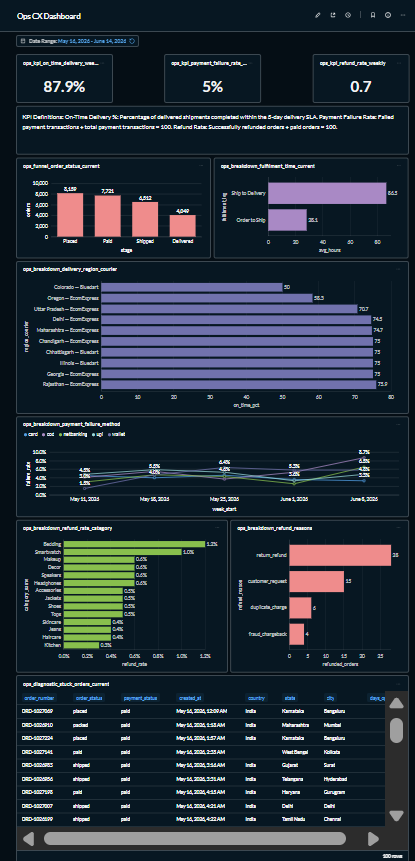
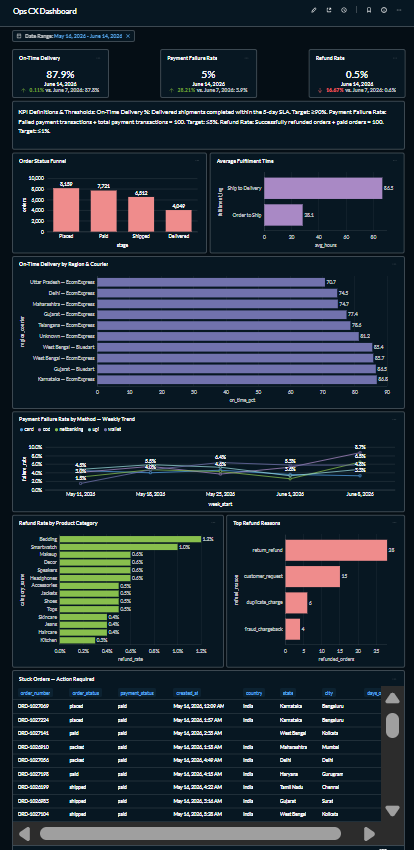
Complete Task 3 reviewer fixes

Changed region(s): [[0.0, 0.0, 1.0, 1.0], [0.5507, 0.4588, 0.6377, 0.4894], [0.7536, 0.4588, 0.7826, 0.4894]]

diff --git a/anomaly-investigations/anomaly_01.md b/anomaly-investigations/anomaly_01.md
@@ -1,41 +1,11 @@
 # Anomaly Investigation 01 — Revenue Decline on June 14, 2026
 
-## Observation
+**Observation:** On June 14, 2026, paid revenue fell to ₹421,219 from ₹1,951,822 on June 7, representing a 78.4% week-over-week decline. This was the most significant movement visible in the Leadership Snapshot.
 
-On June 14, 2026, paid revenue fell to **₹421,219** from **₹1,951,822** on June 7, representing a **78.4% week-over-week decline**.
+**Hypotheses:** The decline could have been caused by lower traffic/session volume, lower conversion into paid orders, lower average order value (AOV), or incomplete data for June 14.
 
-This was the most significant movement visible in the Leadership Snapshot.
+**Tests:** I compared June 14 with the same weekday one week earlier. Session volume declined from 1,007 to 429, a 57.4% decrease. Paid orders declined from 258 to 72, a 72.1% decrease, while AOV declined from ₹7,565 to ₹5,850, a 22.7% decrease. I also reviewed the hourly order profile. June 14 contained order activity across most hours of the day, including late-evening activity, indicating that the revenue decline was not caused by a simple partial-day data cutoff.
 
-## Hypotheses
+**Conclusion:** The revenue decline was primarily associated with substantially lower traffic and paid-order volume, with the decline in AOV providing an additional negative impact. Because paid orders fell more sharply than session volume, traffic reduction alone does not fully explain the anomaly; conversion performance should also be investigated. The hourly profile does not indicate a simple partial-day data issue.
 
-The decline could have been caused by:
-
-1. Lower paid-order volume.
-2. Lower Average Order Value (AOV).
-3. Incomplete data for June 14.
-
-## Tests
-
-I compared June 14 with the same weekday one week earlier.
-
-| Metric | June 7, 2026 | June 14, 2026 | Change |
-|---|---:|---:|---:|
-| Paid Revenue | ₹1,951,822 | ₹421,219 | **-78.4%** |
-| Paid Orders | 258 | 72 | **-72.1%** |
-| AOV | ₹7,565 | ₹5,850 | **-22.7%** |
-
-I then checked data completeness.
-
-Orders were recorded from **12:15 AM through 11:28 PM on June 14**, confirming that the date represents a full day rather than a partial data load.
-
-## Conclusion
-
-The revenue decline was driven by both lower paid-order volume and lower AOV, with the substantial reduction in order volume being the primary driver.
-
-The completeness test did not indicate a partial-day data issue.
-
-## So What
-
-Leadership should prioritize investigating the reason for the sharp reduction in paid orders on June 14, including **acquisition/channel and conversion performance**, while also reviewing the decline in AOV.
-
-This should be treated as a **business-performance anomaly rather than dismissed as a data-refresh issue**.
+**So What:** Leadership should investigate why traffic fell sharply on June 14 and why paid orders declined even faster than sessions. Acquisition/channel performance and conversion should be reviewed first, followed by the decline in AOV. The evidence supports treating June 14 as a genuine business-performance anomaly rather than dismissing it as a data-refresh issue.

diff --git a/metric-definitions/metric_definitions.md b/metric-definitions/metric_definitions.md
@@ -10,7 +10,7 @@ This page defines the standard KPI calculations used across the Task 3 dashboard
 | **Orders** | Count of distinct `order_id` for paid orders. | `ecom.orders` |
 | **AOV** | Revenue ÷ distinct paid orders. | `ecom.orders` |
 | **Conversion Rate** | Distinct sessions resulting in a paid order ÷ total distinct sessions × 100. | `ecom.sessions`, `ecom.orders` |
-| **Refund Rate** | Distinct successfully refunded orders ÷ distinct paid orders × 100. | `ecom.refunds`, `ecom.orders` |
+| **Refund Rate** | Distinct successfully refunded paid orders created during the reporting period ÷ distinct paid orders created during the reporting period × 100. | `ecom.refunds`, `ecom.orders` |
 | **WoW %** | `(Current value − Previous week value) ÷ Previous week value × 100`. | Derived |
 
 ## Ops/CX Metrics
@@ -27,42 +27,27 @@ This page defines the standard KPI calculations used across the Task 3 dashboard
 | **Stuck Orders** | Orders in a non-terminal status for more than 2 days relative to the dataset's latest order date. | `ecom.orders` |
 | **Refund Rate by Product Category** | Distinct successfully refunded orders associated with a category ÷ distinct paid orders associated with that category × 100. | `ecom.refunds`, `ecom.order_items`, `ecom.product_variants`, `ecom.products`, `ecom.categories`, `ecom.orders` |
 
-## Cross-Dashboard Consistency Check
+# Cross-Dashboard Consistency Check
 
 **Metric:** Refund Rate
 
-**Validation Period:** June 8, 2026 – June 14, 2026
+**Canonical Definition:**
 
-### Definition
-
-Distinct successfully refunded orders during the period  
+Distinct successfully refunded paid orders created during the reporting period  
 ÷  
-Distinct paid orders during the period  
-× 100
+Distinct paid orders created during the reporting period  
+× 100.
 
-### Results
+## Multi-Window Validation
 
-| Validation | Result |
-|---|---:|
-| Leadership Snapshot | **0.69%** |
-| Ops/CX Dashboard | **0.7%** |
-| Successfully Refunded Orders | **8** |
-| Paid Orders | **1,162** |
+| Validation Window | Leadership Snapshot | Ops/CX Dashboard | Result |
+|---|---:|---:|---|
+| Apr 1–30, 2026 | 0.57% | 0.6% | PASS |
+| May 16–Jun 14, 2026 | 0.52% | 0.5% | PASS |
+| Jun 1–7, 2026 | 0.61% | 0.6% | PASS |
 
-### Manual Validation
+**Result:** PASS
 
-```text
-8 refunded orders ÷ 1,162 paid orders × 100
-= 0.688468...
-≈ 0.69%
-```
+The metric was tested across multiple reporting windows to confirm that both dashboards respond dynamically to the Date Range filter and use the same canonical Refund Rate definition.
 
-**Result:** ✅ PASS
-
-### Conclusion
-
-Both dashboards use the same Refund Rate definition and the same 7-day comparison period.
-
-The underlying Refund Rate is **0.69%**. The Leadership Dashboard displays **0.69%**, while the Ops/CX Dashboard displays **0.7%** because it is rounded to one decimal place.
-
-The difference is display formatting only, not a metric-definition difference.
+The small displayed differences are due only to formatting: the Leadership Snapshot displays Refund Rate to two decimal places, while the Ops/CX Dashboard displays it to one decimal place.

diff --git a/prds/leadership_snapshot_prd.md b/prds/leadership_snapshot_prd.md
@@ -94,6 +94,14 @@ All dashboard filters are connected to the applicable Leadership dashboard cards
 3. **Country and Acquisition Channel Breakdowns** — identify the main drivers of business performance.
 4. **Diagnostic Table** — supports deeper investigation when a KPI changes.
 
+# Known Caveats 
+
+- Conversion Rate and Payment Method: Payment Method is only available for sessions that progress to an order/payment attempt. Applying a Payment Method filter requires careful denominator handling so that Conversion Rate is not artificially inflated by excluding non-converting sessions. This is addressed separately in the Conversion Rate metric logic.
+- WoW comparison: KPI Trend cards compare the latest reporting point with the corresponding point seven days earlier. The dashboard default reporting window is fixed to end on June 14, 2026 for consistent Task 3 evaluation.
+- Acquisition attribution: Acquisition Channel analysis depends on the channel associated with the session and should be interpreted according to the available session-level attribution data.
+- Executive scope: The dashboard intentionally excludes detailed operational diagnostics such as courier SLA issues, payment error codes, and individual stuck orders; these are handled in the Ops/CX Dashboard. 
+- Conversion Rate denominator: The session denominator is calculated independently of Payment Method. Payment Method filters only the converted-session numerator, preventing non-converting sessions from being removed from the denominator. Validation: All methods = 16.32%; UPI = 4.66%.
+
 ## Wireframe
 
 ```text
@@ -122,3 +130,4 @@ Top 5 with WoW                  | Top 5 with WoW
 Leadership — 14-Day Diagnostic Table
 
 --------------------------------------------------------------------------
+

diff --git a/prds/ops_cx_prd.md b/prds/ops_cx_prd.md
@@ -96,6 +96,13 @@ When a courier in a particular region starts failing or a payment gateway begins
 3. **Delivery, Payment, and Refund Breakdowns** — identify the region, courier, payment method, or product category driving the issue.
 4. **Actionable Stuck Orders List** — identify the exact orders requiring operational intervention.
 
+## Known Caveats
+- Reporting window: The dashboard default reporting range is fixed to end on June 14, 2026 for consistent Task 3 evaluation. KPI Trend cards compare the latest 7-day reporting period with the preceding 7-day period.
+- Delivery SLA: On-Time Delivery uses a fixed 5-day SLA from shipped_at to delivered_at; differences in courier- or region-specific contractual SLAs are not modeled.
+- Payment failures: Payment Failure Rate is calculated from recorded payment transactions. It reflects transaction failures and does not independently identify the root cause of a gateway failure.
+- Stuck orders: Stuck-order identification is based on the defined age/status rule and should be treated as an operational investigation queue rather than proof that every listed order requires the same intervention.
+- Region/Courier comparisons: Low-volume region/courier combinations can produce volatile percentages; volume should be considered alongside On-Time Delivery % when prioritizing operational action.
+
 ## Wireframe
 
 ```text
